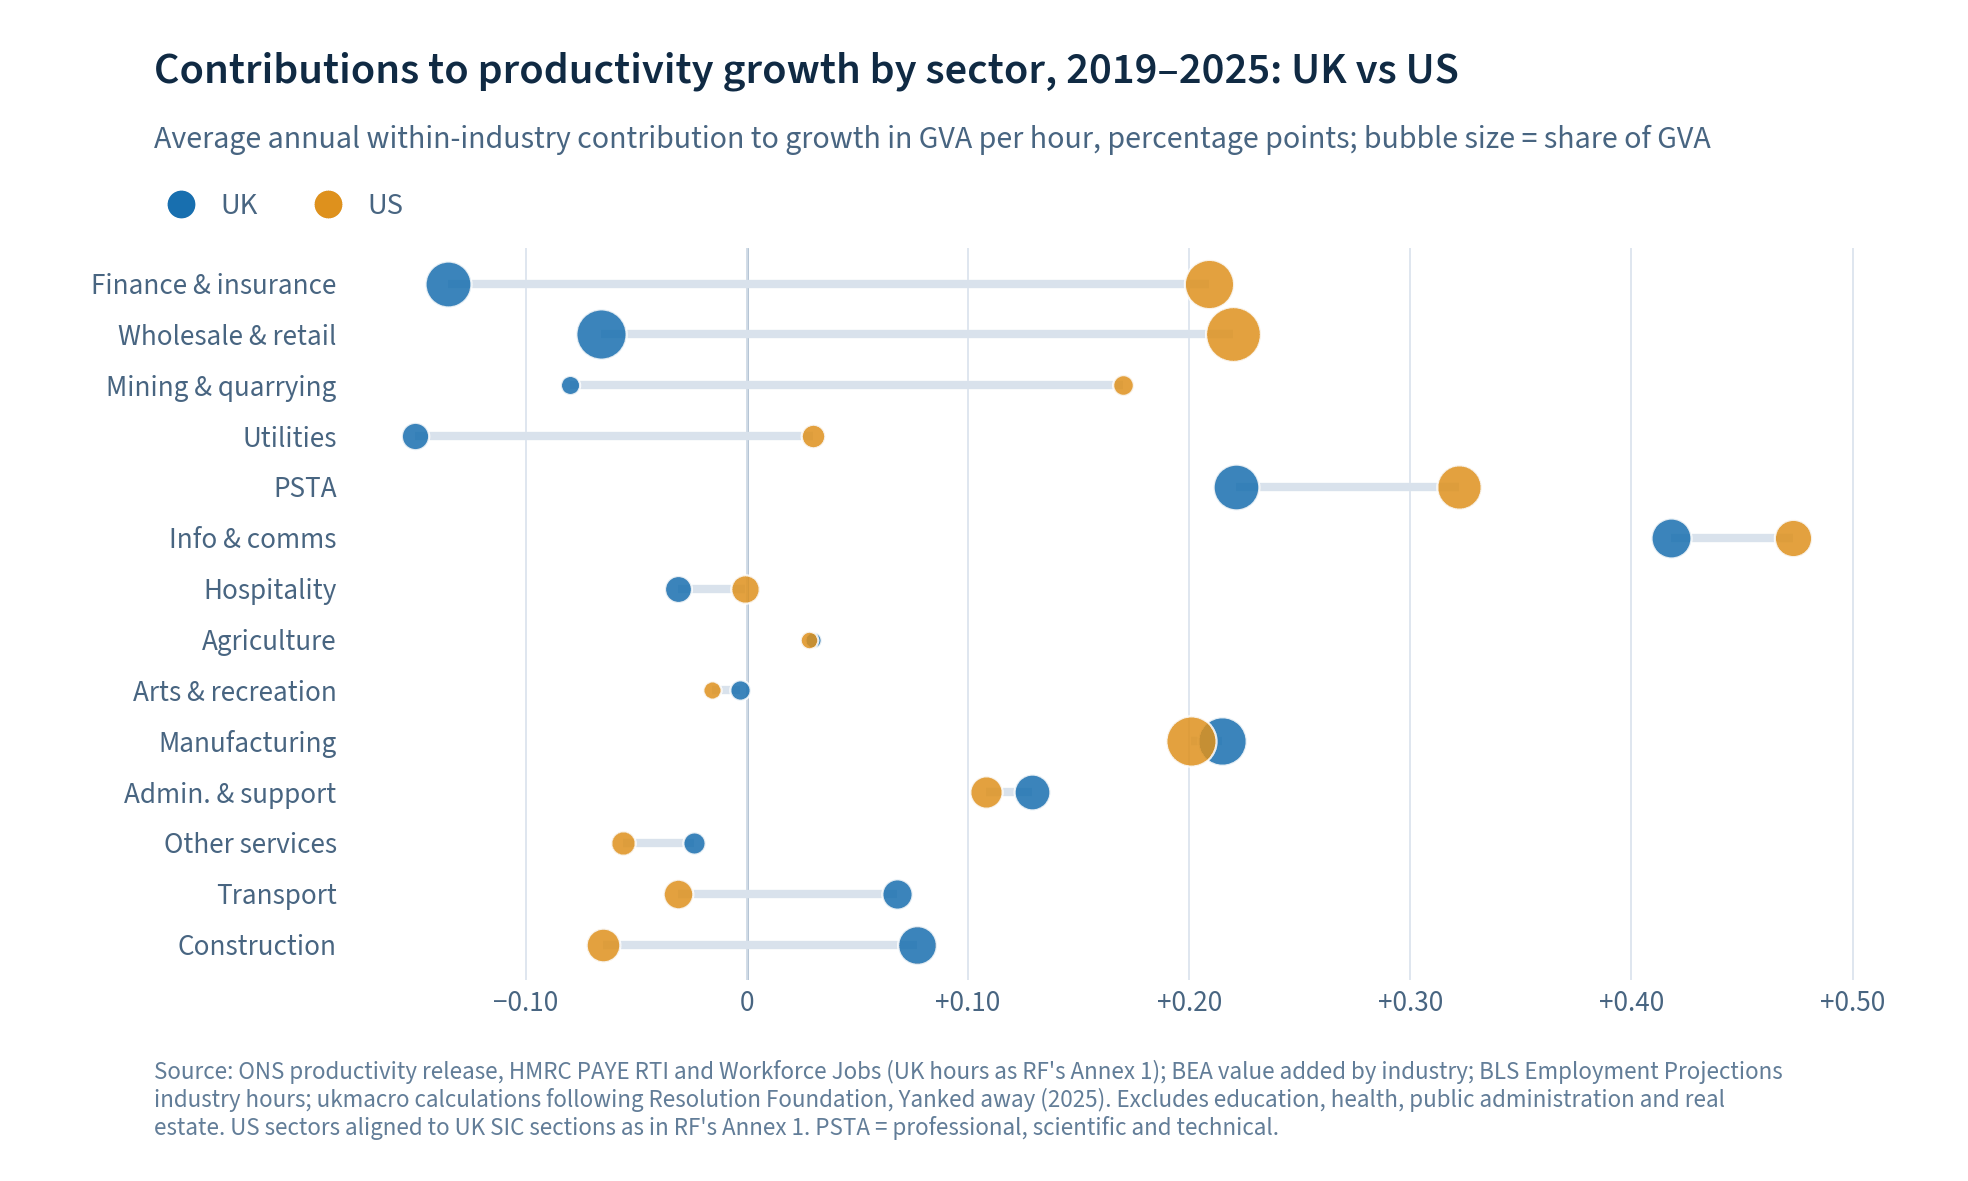
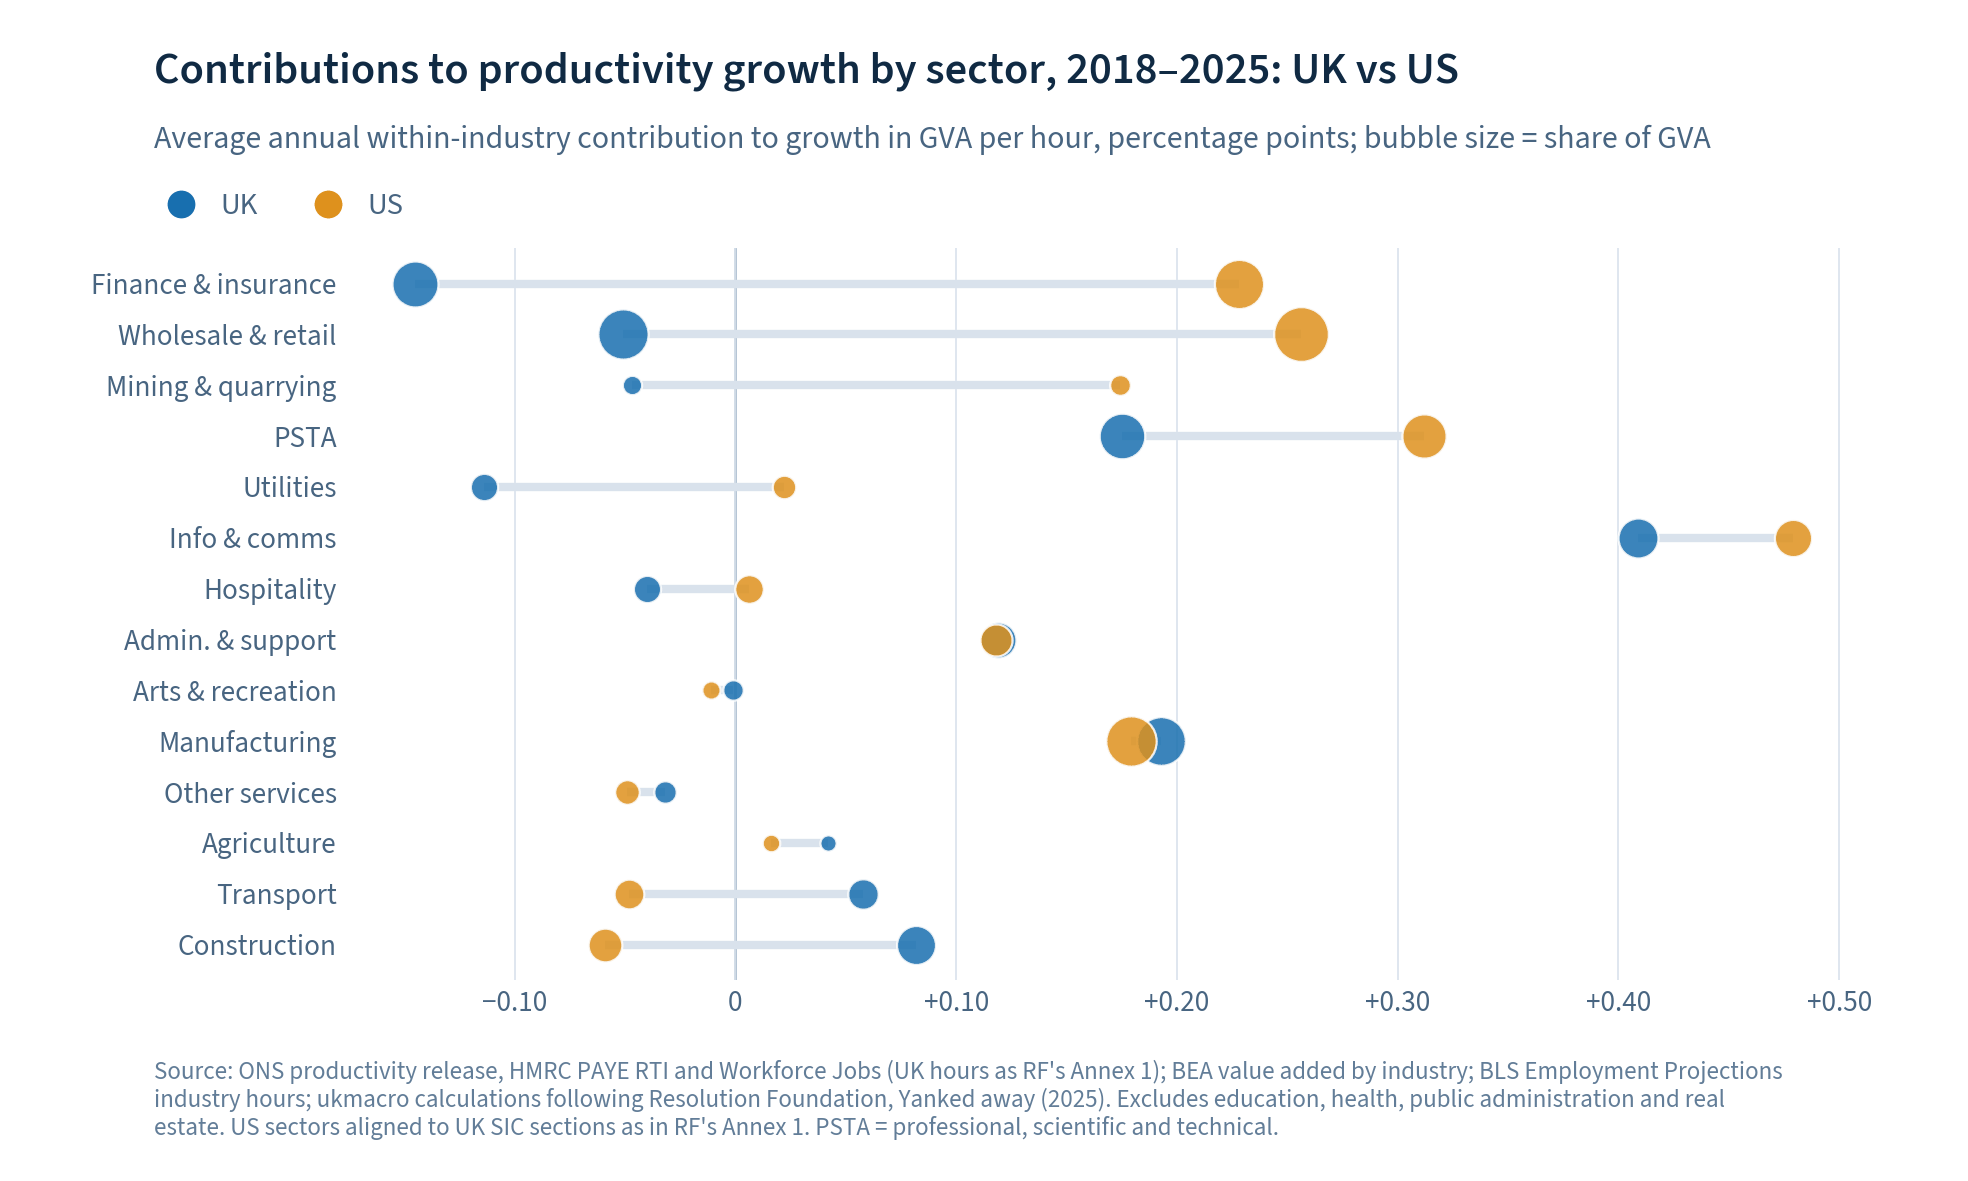
Start the UK vs US sector contributions in 2018, so the average includes a pre-Covid year

diff --git a/builders/productivity/uk_us_sectors.py b/builders/productivity/uk_us_sectors.py
@@ -7,7 +7,7 @@ figures 6 and 10, rebuilt on the latest data.
                                    sector's share of 2019 GVA, so a bar's area is roughly
                                    its contribution to aggregate productivity growth
   uk-us-productivity-contributions figure 10: average annual within-industry contribution
-                                   to GVA-per-hour growth from 2019 (growth in 2020 onwards),
+                                   to GVA-per-hour growth from 2018 (growth in 2019 onwards),
                                    by sector, UK vs US
 
 UK hours follow RF's method (their Annex 1), which avoids leaning on the Labour Force
@@ -74,7 +74,8 @@ BEA_VA = "https://apps.bea.gov/industry/Release/XLS/GDPxInd/ValueAdded.xlsx"
 BLS_EP = "https://www.bls.gov/emp/industry-employment/industry.zip"
 BLS_ZIP = Path.home() / ".cache" / "ukmacro" / "bls" / "industry.zip"   # saved by hand: see us_data()
 OUT, IMG = REPO / "data" / "productivity", REPO / "img" / "productivity"
-BASE_YEAR, START = 2019, 2020   # figure 6 base year; figure 10's first growth year
+BASE_YEAR, START = 2019, 2019   # figure 6 base year; figure 10's first growth year (on 2018,
+                                # so the average isn't dominated by the 2020-21 Covid swing)
 
 # UK sections as the ONS productivity tables label them: (short name, figure 6 group)
 SECTIONS = {
@@ -285,7 +286,7 @@ def fig10_rows(uk: dict, us: dict) -> tuple[list[dict], int]:
         for c, con in (("uk", uk_c), ("us", us_c)):
             row[f"{c}_contribution"] = round(mean([con[t][0] for t in years]), 3)
             row[f"{c}_gva_share"] = round(mean([con[t][1] for t in years]), 2)
-            row[f"{c}_contribution_2020_2023"] = round(mean([con[t][0] for t in range(START, 2024)]), 3)
+            row[f"{c}_contribution_2020_2023"] = round(mean([con[t][0] for t in range(2020, 2024)]), 3)  # RF's window
             for t in years:
                 row[f"{c}_{t}"] = round(con[t][0], 3)
         rows.append(row)
@@ -389,7 +390,7 @@ def main() -> None:
     for r in r6:
         print(f"  {r['sector']:20s} share {r['gva_share_2019']:5.1f}  RF-method {r['change_gva_per_hour']:+6.1f}  "
               f"ONS {r['change_ons_output_per_hour']:+6.1f}")
-    print(f"[fig10] {START - 1}-{last}  (2019-2023 in brackets)")
+    print(f"[fig10] {START - 1}-{last}  (RF's 2019-2023 in brackets)")
     for r in r10:
         print(f"  {r['sector']:20s} UK {r['uk_contribution']:+.3f} ({r['uk_contribution_2020_2023']:+.3f})  "
               f"US {r['us_contribution']:+.3f} ({r['us_contribution_2020_2023']:+.3f})")
